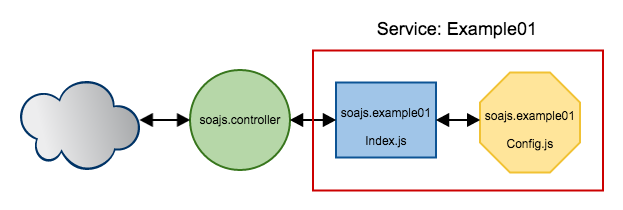
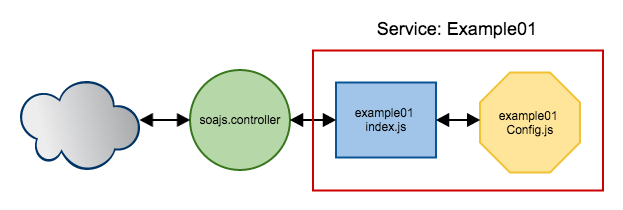
updated images in getstarted and examples. updated getStarted and example01 content.

diff --git a/sections/getstarted/page.html b/sections/getstarted/page.html
@@ -40,11 +40,7 @@
 				If you have <b>NodeJs</b> installed, then you can open your terminal and execute the following commands:
                 <pre>
 	                <code class="bash">#install soajs services
-$ npm install soajs.controller
-$ npm install soajs.oauth
-$ npm install soajs.urac
-#install the examples
-$ npm install soajs.examples</code></pre>
+$ npm install soajs.controller</code></pre>
 			</li>
 			<li><h4>Start the services</h4>
 				To start a service, using the command line, navigate to its folder, and run node index.<br>
@@ -59,8 +55,8 @@ $ node index</code></pre>
 			</li>
 			<li>
 				<h4>Testing the Service:</h4>
-				By default, the controller runs on your localhost via port 4000. Every service in <b>SOAJS</b> is equiped with a maintenance port that you can access while the service is running and perform some maintenance operations like heartbeat checcking and  reload configuration.<br />
-				To access the maintenance port of a service, add 1000 to its port, in this case 4000 + 1000 = 5000.<br/>
+				By default, the controller runs on your localhost via port 4000. Every service in <b>SOAJS</b> has its own default port and another maintenance port configured in the registry. So when you start a service, the service will be listening to two ports at the same time; one to process the requests and another used for maintenance operations.<br />
+				You can access the maintenance port while the service is running and perform some maintenance operations like heartbeat checking and reload configuration. To access the maintenance port of a service, add 1000 to its default port number, in this case 4000 + 1000 = 5000.<br/>
 				Let's see what happens when we run both 4000 and 5000 ports on your machine.<br /><br/>
 				<fieldset>
 					<legend>Default Port</legend>
@@ -86,11 +82,7 @@ $ node index</code></pre>
 				<fieldset>
 					<legend>Maintenance Port</legend>
 					<div>
-						<pre><code class="bash">$ curl -X GET "http://localhost:5000</code></pre>
-						<h6><u>Response:</u></h6>
-						<pre><code class="bash">nothing to do!</code></pre>
-						<em>When you invoke the controller maintenance port without specifying what maintenance operation you want to perform, the service simply returns a message "nothing to do!".</em>
-						<p><br /><br />OK!, let's hit the maintenance port again but this time do a heartbeat check.<br /></p>
+						<p>Let's hit the maintenance port and perform a heartbeat check.<br /></p>
 						<pre><code class="bash">$ curl -X GET "http://localhost:5000/heartbeat</code></pre>
 						<h6><u>Response:</u></h6>
 						<pre><code class="bash">{

diff --git a/sections/getstarted/example01.html b/sections/getstarted/example01.html
@@ -71,6 +71,14 @@
 			</tab>
 		</tabset>
 		<hr/>
+		<h3><u>Installing the Service</u></h3>
+		<p>
+			<b>Example01</b> along with other examples are included in <b>soajs.examples</b>. This package provides you with examples on how to use <b>SOAJS</b> to get you up to speed quickly. Since we installed the controller earlier on, let's install this package and use <b>Example01</b> in this section:
+			<pre><code class="bash">$ npm install soajs.examples</code>
+			</pre>
+			Once the package is installed, you will find three examples <b>Example01</b> - <b>Example02</b> - <b>Example03</b>, we will be using <b>Example01</b> in this phase and the remaining 2 later on.
+		</p>
+		<hr/>
 		<h3><u>Registering the Service</u></h3>
 		<p>
 			<img ng-src="images/documentation/registry-example01.png" class="image-border" align="right" style="margin: 5px 0 0 5px;" />
@@ -90,7 +98,7 @@
 		<p>
 		Start by running the service as you did with the controller in <a href="#/getstarted">Get Started</a>.<br />
 		<pre><code class="bash"># navigate to soajs.examples/example01 service and start it
-$ cd /opt/soajs/soajs.examples/example01/
+$ cd soajs.examples/example01/
 $ node index</code></pre>
 		<b>Example01</b> is now running on http://localhost:4000/example01.<br />
 		Let's do a heartbeat check just to make sure all is working as expected before we begin the tests.<br /><br />
